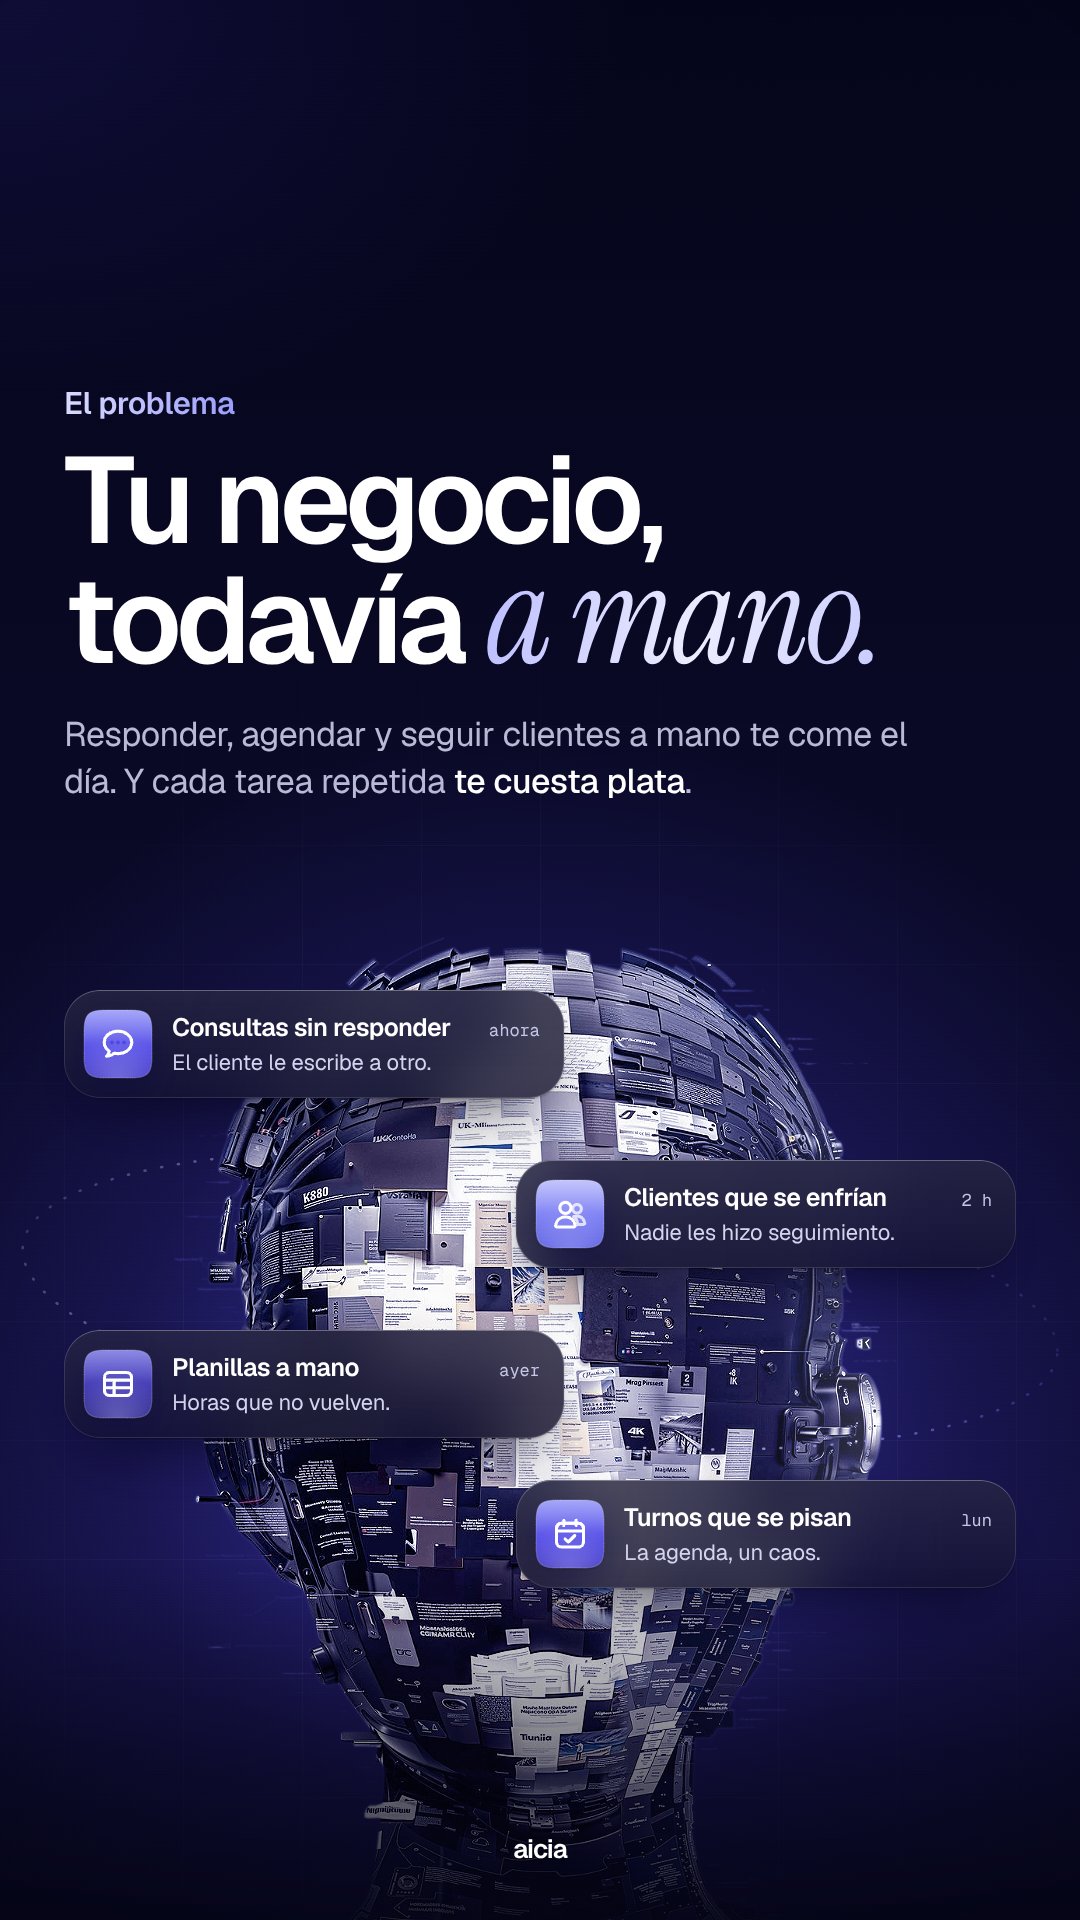
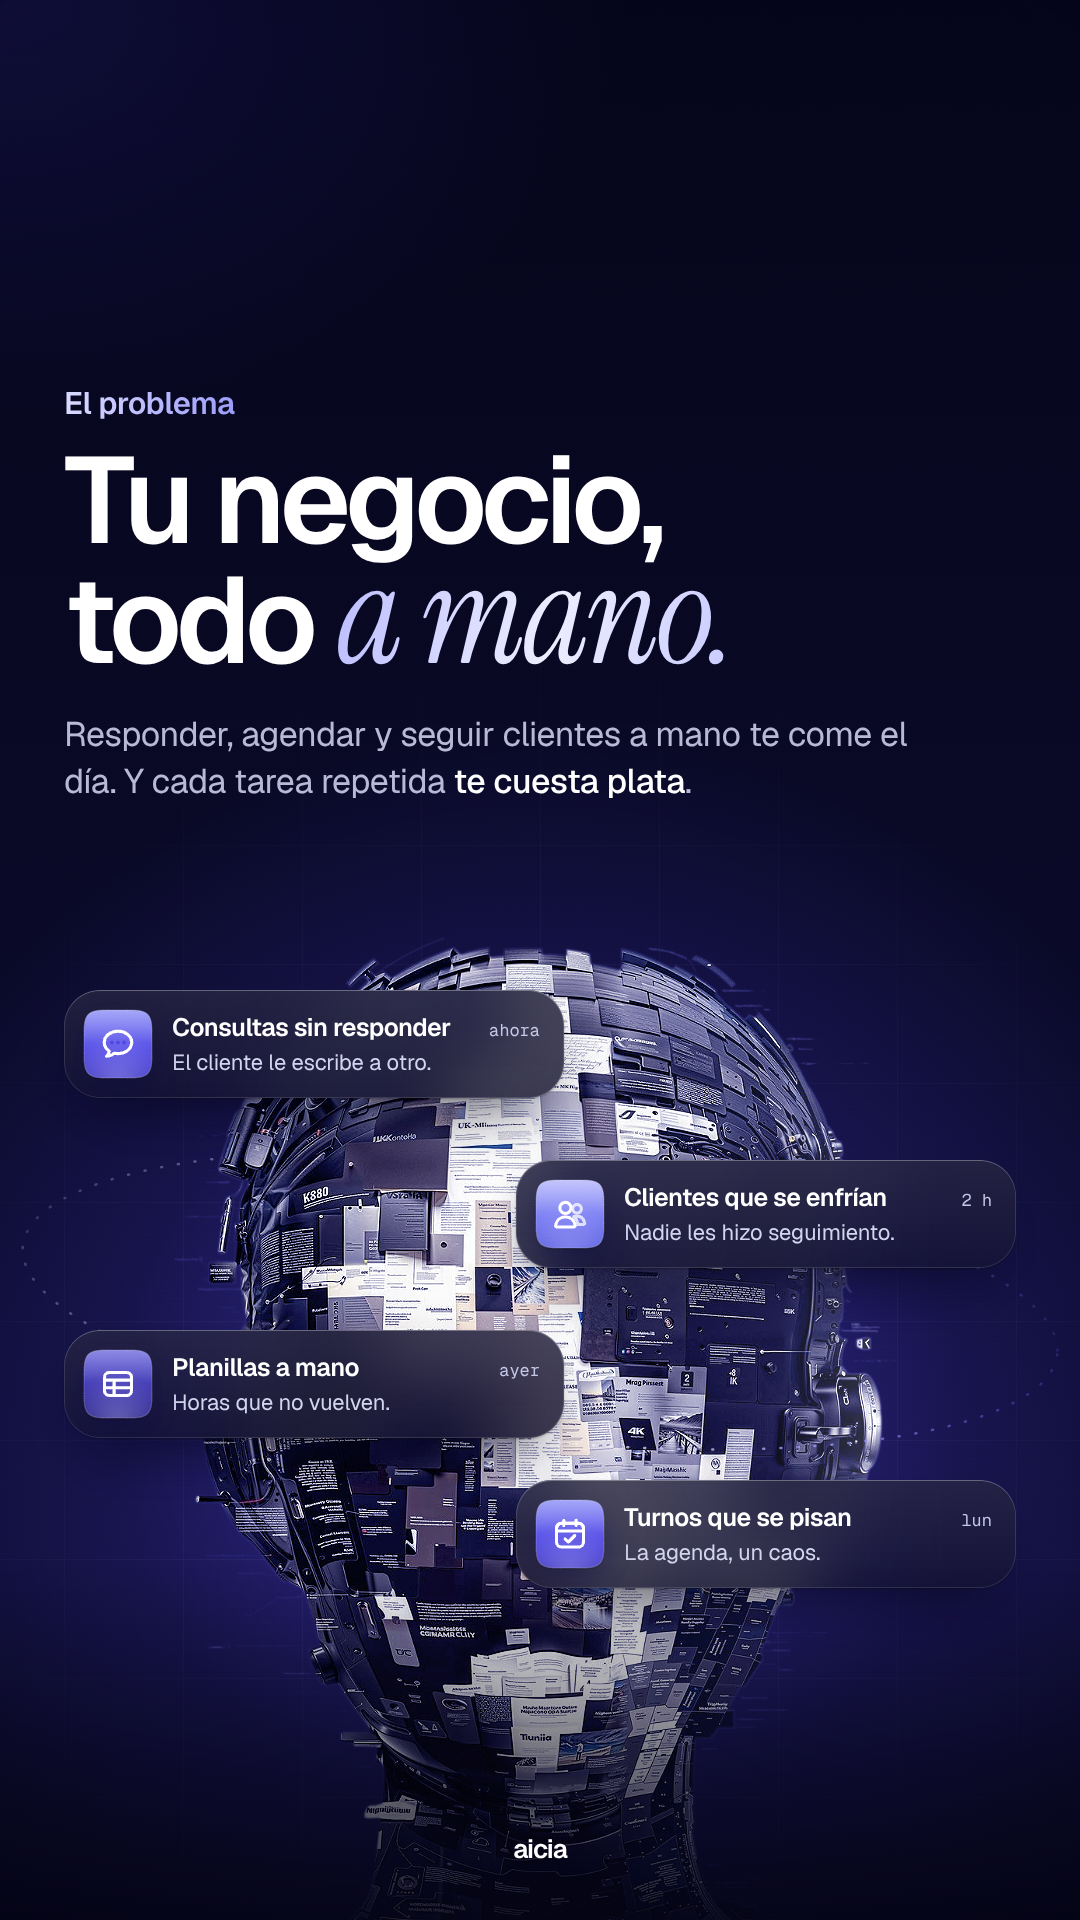
Cambia el título de la historia 02: "Tu negocio, todo a mano."
Claude-Session: https://claude.ai/code/session_01SBSshHAET78NiDLxszLW9R

Changed region(s): [[0.2139, 0.2812, 0.7944, 0.3438]]

diff --git a/historias/destacada-aicia/destacada.html b/historias/destacada-aicia/destacada.html
@@ -226,7 +226,7 @@ svg.app .gl .f{fill:#fff;stroke:none}
   <div class="stage"></div><div class="grid"></div>
   <div class="subj" data-src="assets/cabeza-documentos.webp" data-rim="right" style="left:120px;top:900px;width:840px;--tint:.30;--rim:.45"></div>
   <div class="eyebrow tx">El problema</div>
-  <h1 class="title tx">Tu negocio,<br>todavía <span class="serif">a mano.</span></h1>
+  <h1 class="title tx">Tu negocio,<br>todo <span class="serif">a mano.</span></h1>
   <p class="lede tx">Responder, agendar y seguir clientes a mano te come el día. Y cada tarea repetida <b>te cuesta plata</b>.</p>
   <div class="notif glass" style="left:64px;top:990px"><svg class="app" viewBox="0 0 100 100" data-g="g-message" data-s="ap-indigo"></svg><div class="nt"><div class="nh"><b>Consultas sin responder</b><span class="mono">ahora</span></div><p>El cliente le escribe a otro.</p></div></div>
   <div class="notif glass" style="left:516px;top:1160px"><svg class="app" viewBox="0 0 100 100" data-g="g-people" data-s="ap-light"></svg><div class="nt"><div class="nh"><b>Clientes que se enfrían</b><span class="mono">2 h</span></div><p>Nadie les hizo seguimiento.</p></div></div>
